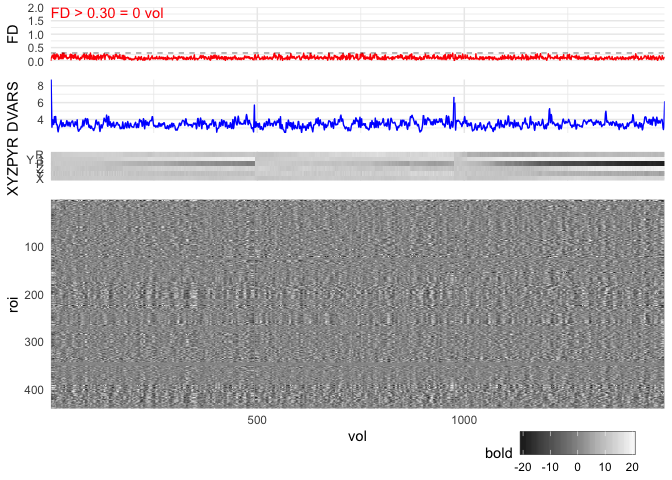
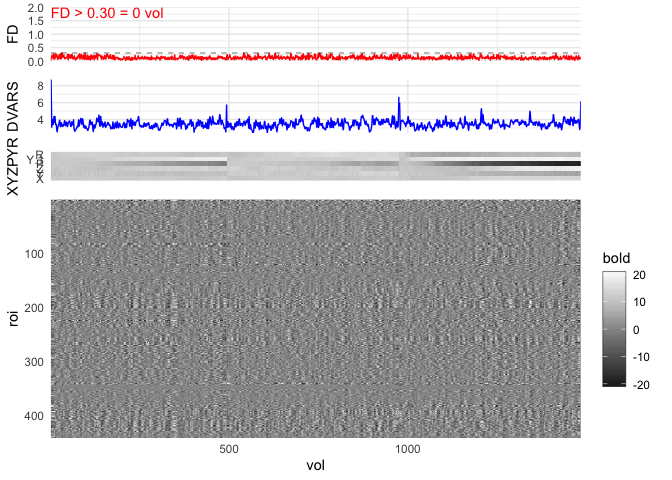
Add utils_fmri_diagnostic_plots.R; update gifti scripts to clean up motion section using utility.

diff --git a/gifti_single_sub_sample/gifti_in_r.md b/gifti_single_sub_sample/gifti_in_r.md
@@ -36,11 +36,6 @@ tmask <- read.table(tmask_file, col.names = "tmask")
 fd <- data.frame(fd[as.logical(tmask$tmask),])
 motion <- motion[as.logical(tmask$tmask),]
 dv <- dv[as.logical(tmask$tmask),]
-
-# Reasign volume #  after tmasking
-fd$vol <- 1:nrow(fd)
-dv$vol <- 1:nrow(dv)
-motion$vol <- 1:nrow(motion)
 ```
 
 ## Extract Nodes’ mean time series from surface data
@@ -73,94 +68,16 @@ rm(tp_L, tp_R) # cleanup
 
 ## Plot processed mean time series of each node
 
-  - The heatmaps here are generated using a customized version of the
-    [superheat (github)](https://github.com/mychan24/superheat) package.
+  - The heatmaps here is generated using
+`geom_raster()`
 
 <!-- end list -->
 
 ``` r
-tp_to_longdat <- function(data){
-  df <- data.frame(roi=1:nrow(data),data)
-  names(df)[2:ncol(df)] <- 1:(ncol(df)-1)
-  df_long <- gather(df, key = "vol", value = "bold", 2:(ncol(df)))
-  df_long$vol <- as.numeric(df_long$vol)
-  return(df_long)
-}
-
-motion_to_longdat <- function(data){
-  tdf <- gather(motion, key = "XYZPYR", value="motion", 1:6) 
-  tdf$XYZPYR<- factor(tdf$XYZPYR, c("X","Y","Z","P","Y.1","R"))
-  tdf$vol <- as.numeric(tdf$vol)
-  return(tdf)
-}
-
-df_long <- tp_to_longdat(tp)
-mot_long <- motion_to_longdat(motion)
-
-#### 1. Function for QC-metric plot  ####
-fig_plot_qc <- function(vol, qc, qc_thres=NULL, qc_name="QC", qc_color="red", miny=NULL, maxy=NULL){
-  df <- data.frame(vol=vol, qc=qc)
-  
-  if(is.null(miny) | is.null(maxy)){
-    miny=min(df$qc)
-    maxy=max(df$qc)
-  }
-  
-  p <- ggplot(data = df, aes(x=vol, y=qc)) +
-    geom_line(color=qc_color) +
-    scale_x_continuous(expand = c(0, 0)) +
-    scale_y_continuous(expand = c(0, 0), limits = c(miny,maxy)) +
-    ylab(label = qc_name)
-  
-  if(!is.null(qc_thres)){
-    qc_flag_x <- which(df$qc > qc_thres)
-    qc_text <- sprintf("%s > %.2f = %d vol", qc_name, qc_thres, length(qc_flag_x))
-    
-    p <- p + geom_hline(yintercept = qc_thres, size=0.2, linetype="dashed") +
-      annotate("text", -Inf, Inf, label=qc_text, hjust = 0, vjust = 1, color=qc_color)
-  }
-  p <- p + theme_minimal() +
-    theme(axis.title.x=element_blank(),
-          axis.text.x=element_blank(),
-          axis.ticks.x=element_blank())
-  return(p)
-}
-
-#### 2. Function for 6 motion plot  ####
-fig_plot_motion <- function(data){
-  ggplot(data, aes(x=vol, y=XYZPYR, fill=motion)) +
-    geom_raster() +
-    scale_fill_distiller(palette = "Greys") +
-    scale_x_continuous(expand = c(0, 0)) +
-    theme_minimal() +
-    theme(legend.position = "none",
-          axis.title.x=element_blank(),
-          axis.text.x=element_blank(),
-          axis.ticks.x=element_blank())
-}
-
-#### 3. Function for gray plot  ####
-fig_plot_time_series <- function(data) {
-  min <- -20 # min(data$bold)
-  max <- 20 # max(data$bold)
-  max_diff <- c(min, max) %>% abs() %>% max()
-  ggplot(data, aes(vol, roi, fill = bold)) +
-    geom_raster() +
-    scale_fill_distiller(palette = "Greys", limits = c(-max_diff, max_diff),
-                         guide = guide_colorbar(label = TRUE,
-                                                frame.colour="black")) +
-    scale_y_reverse(expand=c(0, 0)) + 
-    scale_x_continuous(expand = c(0, 0)) +
-    theme_minimal() + 
-    theme(legend.position = "bottom",
-          legend.margin=margin(c(-20,-300,0,5)))
-}
-
-g1 <- fig_plot_qc(vol = fd$vol, qc = fd$FD, qc_thres=0.3, qc_name="FD", miny = 0, maxy = 2)
-g2 <- fig_plot_qc(vol = dv$vol, qc = dv$DVARS, qc_name="DVARS", qc_color = "blue")
-g3 <- fig_plot_motion(mot_long)
-g4 <- fig_plot_time_series(df_long)
-
+g1 <- plot_qc(qc = fd$FD, qc_thres=0.3, qc_name="FD", miny = 0, maxy = 2)
+g2 <- plot_qc(qc = dv$DVARS, qc_name="DVARS", qc_color = "blue")
+g3 <- plot_motion(motion)
+g4 <- plot_time_series(tp, min = 20, max = 20)
 
 plots_aligned <- AlignPlots(g1, g2, g3, g4)
 ```
@@ -180,18 +97,12 @@ grid.arrange(as.grob(plots_aligned[[1]]),
 
 ![](gifti_in_r_files/figure-gfm/plot_motion-1.png)<!-- -->
 
-``` r
-# tictoc::tic()
-# g2 <- superheat::superheat(tp, y.axis.reverse = T,
-#                      heat.lim = c(-20, 20),
-#                      heat.pal = c("black","white"),
-#                      grid.hline = FALSE,
-#                      grid.vline = FALSE,
-#                      title="Mean Time series of each node")
-# tictoc::toc()
-```
-
 ## Correlation Matrix (z-transformed)
+
+  - The heatmaps here are generated using a customized version of the
+    [superheat (github)](https://github.com/mychan24/superheat) package.
+
+<!-- end list -->
 
 ``` r
 r <- cor(t(tp))         # Correlation matrix between all nodes
@@ -209,7 +120,7 @@ superheat::superheat(z,
                      title="Node x Node Correlation Matrix (z-transformed)")
 ```
 
-![](gifti_in_r_files/figure-gfm/unnamed-chunk-2-1.png)<!-- -->
+![](gifti_in_r_files/figure-gfm/unnamed-chunk-1-1.png)<!-- -->
 
 ## Correlation Matrix, nodes ordered by systems
 
@@ -238,7 +149,7 @@ superheat::superheat(X = z,
                      title="Node x Node Correlation Matrix (z-transformed")
 ```
 
-![](gifti_in_r_files/figure-gfm/unnamed-chunk-4-1.png)<!-- -->
+![](gifti_in_r_files/figure-gfm/unnamed-chunk-3-1.png)<!-- -->
 
 ## Splitting Negative and Positive
 
@@ -281,4 +192,4 @@ gridExtra::grid.arrange(ggplotify::as.grob(ss_pos$plot), ggplotify::as.grob(ss_n
                         nrow=1)
 ```
 
-![](gifti_in_r_files/figure-gfm/unnamed-chunk-6-1.png)<!-- -->
+![](gifti_in_r_files/figure-gfm/unnamed-chunk-5-1.png)<!-- -->
